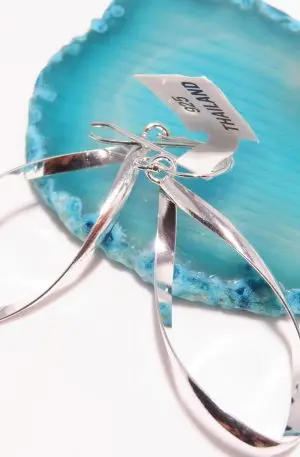
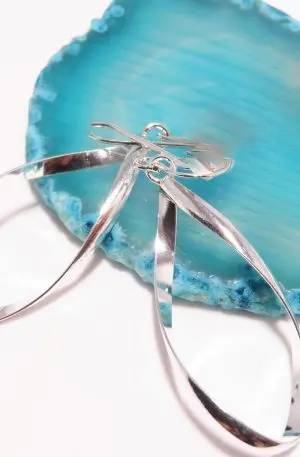
Edited tags out of pictures

Changed region(s): [[0.45, 0.1532, 0.87, 0.3982]]

diff --git a/Gp/assets/css/style.css b/Gp/assets/css/style.css
@@ -696,7 +696,9 @@ section {
 
 .services .icon-box h4 {
   font-weight: 700;
-  margin-bottom: 15px;
+  margin-bottom:
+ 15px;
+ margin-top: 15px;
   font-size: 24px;
 }
 
